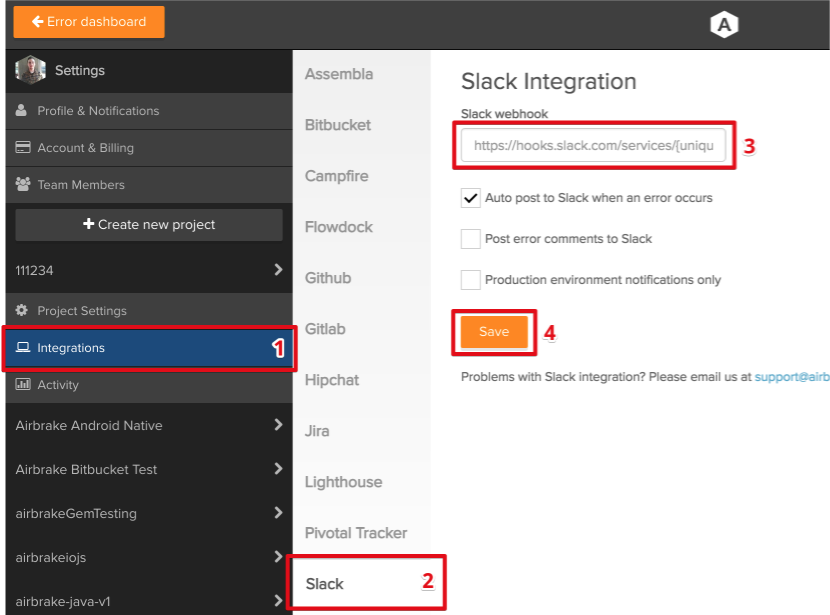
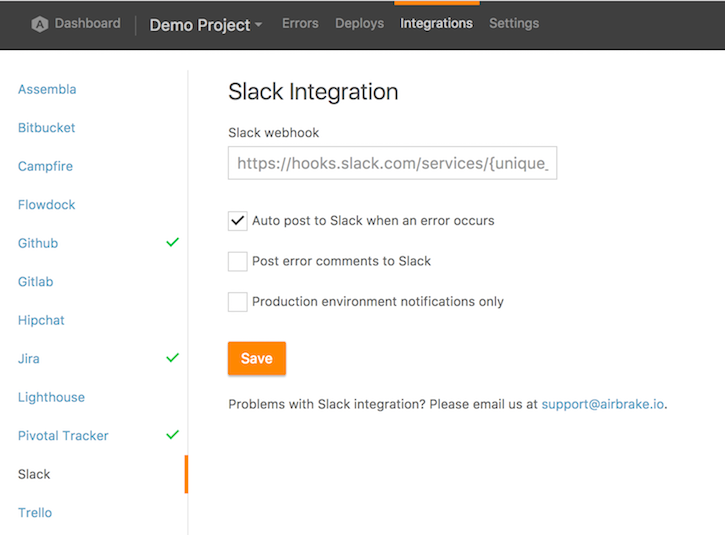
Doc nav image updates (#113)
* Delete settings_cog.png

* New settings_cog.png

Updated for new nav.

* Delete bitbucket_auth.png

Add new bitbucket_auth.png

* Add new bitbucket_auth.png

* Update doc for new nav images and login

Closes #111

* Delete campfire_settings.png

* New campfire_settings.png image

* Delete campfire_test_results.png

Not needed in new doc.

* Delete campfire_testing.png

* New campfire_testing.png file

* Update doc with new nav images

* Delete bitbucket_auth.png

Step numbers didn't show up properly.

* Step numbers showing properly.

* Delete campfire_settings.png text not showing

* Text showing properly

* Delete image. Missed step number 4

* Step 4 added.

* Delete lighthouse_settings.png

Updating for new nav

* Delete lighthouse_token_settings.png

Updating for new nav

* Updating Lighthouse images for new nav

* Delete slack_settings_in_airbrake.png

Update for new nav

* Update image for new nav

* Update instructions to match new nav

* Delete trello_auth.png

Updating for nav

* Delete trello_settings.png

Updating for nav

* Updating for nav changes

* Update text for nav changes.

Removed numbered steps. Steps seem pretty obvious for our customer base.

* Update for new nav

* Adding for new nav

* Deleting image for new nav

* Image for new nav and search

* Delete image for updating layout

* New image for updated layout

* Delete for new layout

* Update for new layout

* Delete for new nav

* Update for nav changes

* Delete for new nav
[…]

diff --git a/jekyll/_docs/integrations/trello.md b/jekyll/_docs/integrations/trello.md
@@ -12,18 +12,12 @@ You can also set this integration to automatically create a Trello card when a n
 
 ## Authenticate with Trello
 Airbrake needs permission to create Trello cards for your project.
-
-1. Click **Integrations** for your project
-2. Click **Trello**
-3. Click the button that says **Authorize with Trello**
+Click **Integrations** in the menu bar for your project's dashboard. Then click **Trello**
+on the left side of the screen. Click the button that says **Authorize with Trello**.
 
 ![trello authentication](/docs/assets/img/docs/integrations/trello_auth.png)
 
 ## Select Trello board and list
-Select Trello board and Trello list where you want Airbrake to open new Trello cards.
-
-1. Select **Trello Board**
-2. Select **Trello List**
-3. Click **Save**
+Select the Trello board and list where you want Airbrake to open new Trello cards and click **Save**.
 
 ![trello settings](/docs/assets/img/docs/integrations/trello_settings.png)

diff --git a/jekyll/_docs/integrations/bitbucket.md b/jekyll/_docs/integrations/bitbucket.md
@@ -11,13 +11,6 @@ The default behaviour is to automatically create a Bitbucket issue when a new
 type of error is reported to Airbrake, this can be turned off if you prefer to
 create a Bitbucket issue from an Airbrake error manually.
 
-## Adding the Bitbucket integration
-
-### Project settings
-Click the upper left cog to get to your project's settings:
-
-![airbrake settings cog](/docs/assets/img/docs/airbrake/settings_cog.png)
-
 ### Authenticate with Bitbucket
 Airbrake needs permission to create Bitbucket issues for your project, our next
 step is to authenticate!
@@ -30,4 +23,5 @@ step is to authenticate!
 
 ### Add Bitbucket integration
 Add your Bitbucket account name and project's repository name then **save**.
+
 ![bitbucket settings](/docs/assets/img/docs/integrations/bitbucket_settings.png)

diff --git a/jekyll/_docs/airbrake-faq/configuring-notifications.md b/jekyll/_docs/airbrake-faq/configuring-notifications.md
@@ -37,11 +37,11 @@ automatically. **This option is only available to admins on the account**
 
 ## Modify your notification settings
 
-### Open the **upper left dropdown** near your user and click **settings**
+### Open the **upper right dropdown** under your user name and click **profile & notifications**
 Or click [https://airbrake.io/users/edit](https://airbrake.io/users/edit) to be
 taken to your Profile & Notifications settings.
 
-![airbrake dropdown settings](/docs/assets/img/docs/airbrake/dropdown_settings.png)
+![airbrake dropdown profile & notifications](/docs/assets/img/docs/airbrake/dropdown_profile_and_notifications.png)
 
 ### Tune your notification settings and **Save**
 

diff --git a/jekyll/_docs/integrations/slack.md b/jekyll/_docs/integrations/slack.md
@@ -41,9 +41,8 @@ Copy the **Slack webhook URL** from instructions to Your Airbrake project's slac
 ![slack webhook](/docs/assets/img/docs/integrations/slack_webhook.png)
 
 ## Add the **Slack webhook URL** to your Airbrake project
-From your Airbrake project's error dashboard, click the **cog in
-the upper left** near the project's name. From your project settings page click
-**Integrations** in the left sidebar and then select **Slack**.
+From your Airbrake project's error dashboard, click **Integrations in the menu bar**
+near the project's name. From your project's integration page click **Slack** in the left sidebar.
 
 Paste your **Slack webhook URL** into the form and Save!
 

diff --git a/jekyll/_docs/billing/account-cancelation.md b/jekyll/_docs/billing/account-cancelation.md
@@ -14,8 +14,9 @@ sure that requests to cancel accounts are legitimate.**
 ![cancel-account.png](/docs/assets/img/docs/airbrake/cancel_account.png)
 
 To cancel an account, have an administrator on your account go to the *Account
-Settings* page and cancel your account by clicking the "Cancel Account" button.
-This section can be found at **Settings** -> **Account Settings** or at this URL:
+& billing* page and cancel your account by clicking the "Cancel Account" button.
+This section can be found under **your user name in the upper right corner** ->
+**Account & billing** or at this URL:
 
 [https://airbrake.io/account/edit](https://airbrake.io/account/edit)
 

diff --git a/jekyll/_docs/integrations/campfire.md b/jekyll/_docs/integrations/campfire.md
@@ -47,8 +47,9 @@ the same as it appears in YOURSUBDOMAIN.campfirenow.com/rooms
 ## Testing
 Now use the **Test Integration** link from your Campfire Integration to check
 your configuration. This will send a test message from Airbrake to your
-Campfire room.
+Campfire room. You will see the message at the top if it's successful.
 ![campfire test](/docs/assets/img/docs/integrations/campfire_testing.png)
 
 You should see a message like this in your Campfire room:
+
 ![campfire test](/docs/assets/img/docs/integrations/campfire_test_results.png)

diff --git a/jekyll/_docs/billing/updating-your-billing-info.md b/jekyll/_docs/billing/updating-your-billing-info.md
@@ -23,7 +23,7 @@ You can update your billing information from
 [https://airbrake.io/billing/edit](https://airbrake.io/billing/edit) or navigate there manually
 by following these steps.
 
-### Navigate to your **Account & Billing** settings in the side bar.
+### Navigate to your **Account & billing** under your user name in the upper right corner.
 ![billing settings](/docs/assets/img/docs/airbrake/billing_settings.png)
 
 ### Navigate to the **Billing & payment** tab, update your billing info, and then **Save**.
